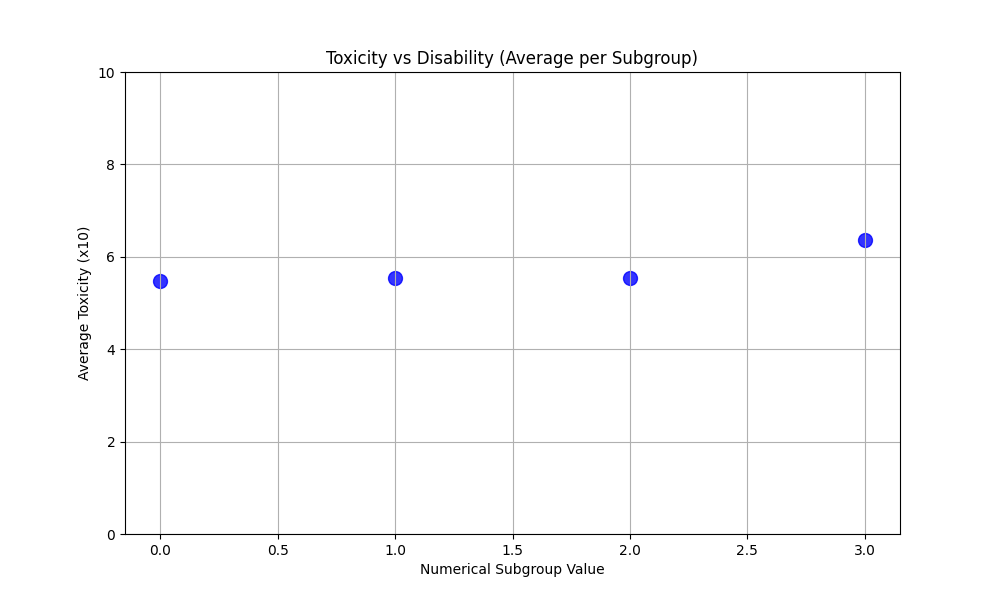
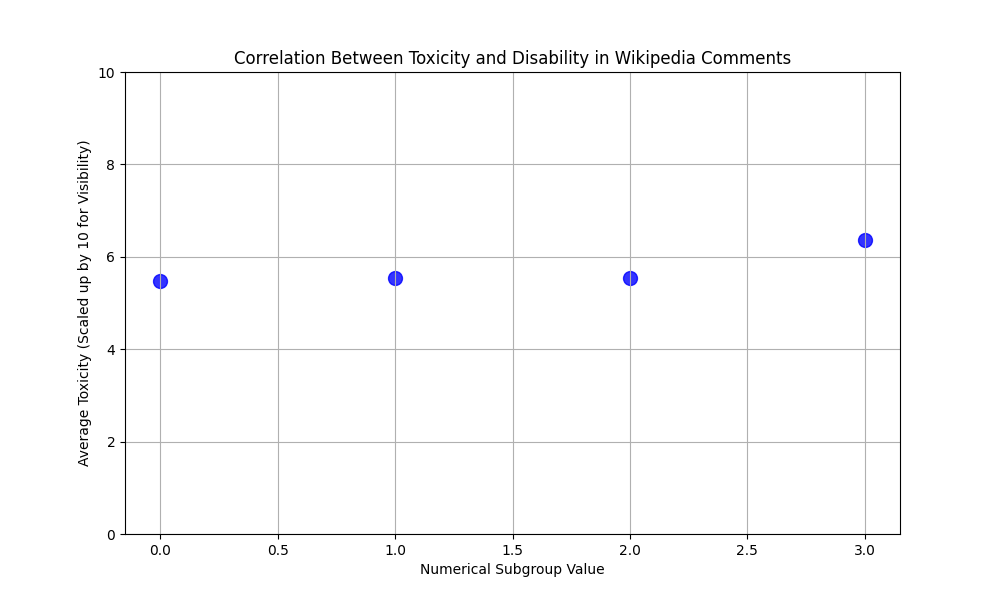
steps 4 to 6 work

diff --git a/HW_3/section4to6.py b/HW_3/section4to6.py
@@ -1,0 +1,233 @@
+import pandas as pd
+import numpy as np
+import matplotlib.pyplot as plt
+
+# Set random seed for reproducibility
+np.random.seed(42)
+
+# Load the reduced dataset
+try:
+    df = pd.read_csv('reduced_dataset.csv')
+except FileNotFoundError:
+    print("Error: 'reduced_dataset.csv' not found.")
+    exit()
+
+# Verify TOXICITY column exists
+if 'TOXICITY' not in df.columns:
+    print("Error: 'TOXICITY' column not found.")
+    exit()
+
+# Define Gender protected class and subgroups
+protected_class = 'Gender'
+subgroups = ['male', 'female', 'nonbinary', 'transgender', 'trans']
+
+# Verify subgroup columns exist
+missing_subgroups = [sub for sub in subgroups if sub not in df.columns]
+if missing_subgroups:
+    print(f"Warning: Subgroups {missing_subgroups} not found in dataset.")
+    exit()
+
+# Step 3: Required for population and sample statistics
+# Step 3.1: Population Statistics
+pop_mean = df['TOXICITY'].mean()
+pop_std = df['TOXICITY'].std(ddof=0)
+lower_95 = pop_mean - 2 * pop_std
+upper_95 = pop_mean + 2 * pop_std
+print("Step 3.1: Population Statistics")
+print(f"Population mean: {pop_mean:.4f}")
+print(f"Population standard deviation: {pop_std:.4f}")
+print(f"Range including ~95% of TOXICITY: [{lower_95:.4f}, {upper_95:.4f}]\n")
+
+# Create 10% and 60% random samples
+sample_10 = df.sample(frac=0.1, random_state=42)
+sample_60 = df.sample(frac=0.6, random_state=42)
+
+# Step 3.2: 10% Sample Statistics
+toxicity_10 = sample_10['TOXICITY']
+mean_10 = toxicity_10.mean()
+std_10 = toxicity_10.std(ddof=1)
+n_10 = len(toxicity_10)
+moe_10 = 1.96 * (std_10 / np.sqrt(n_10))
+ci_10_lower = mean_10 - moe_10
+ci_10_upper = mean_10 + moe_10
+print("Step 3.2: 10% Sample Statistics")
+print(f"Sample mean: {mean_10:.4f}")
+print(f"Sample standard deviation: {std_10:.4f}")
+print(f"Margin of error: {moe_10:.4f}\n")
+
+# Step 3.3: 60% Sample Statistics
+toxicity_60 = sample_60['TOXICITY']
+mean_60 = toxicity_60.mean()
+std_60 = toxicity_60.std(ddof=1)
+n_60 = len(toxicity_60)
+moe_60 = 1.96 * (std_60 / np.sqrt(n_60))
+ci_60_lower = mean_60 - moe_60
+ci_60_upper = mean_60 + moe_60
+print("Step 3.3: 60% Sample Statistics")
+print(f"Sample mean: {mean_60:.4f}")
+print(f"Sample standard deviation: {std_60:.4f}")
+print(f"Margin of error: {moe_60:.4f}\n")
+
+# Step 4: Analyzing Toxicity for Gender
+
+# Step 4.1: Gender in Reduced Dataset
+gender_mask = df[subgroups].any(axis=1)
+toxicity_gender = df.loc[gender_mask, 'TOXICITY']
+if len(toxicity_gender) > 0:
+    mean_gender = toxicity_gender.mean()
+    std_gender = toxicity_gender.std(ddof=0)
+    print("Step 4.1: Gender in Reduced Dataset")
+    print(f"Mean: {mean_gender:.4f}")
+    print(f"Standard deviation: {std_gender:.4f}\n")
+else:
+    print("Step 4.1: No data for Gender\n")
+    mean_gender = None
+    std_gender = None
+
+# Step 4.2: Gender in 10% Sample
+gender_mask_10 = sample_10[subgroups].any(axis=1)
+toxicity_gender_10 = sample_10.loc[gender_mask_10, 'TOXICITY']
+if len(toxicity_gender_10) > 0:
+    mean_gender_10 = toxicity_gender_10.mean()
+    std_gender_10 = toxicity_gender_10.std(ddof=1)
+    n_gender_10 = len(toxicity_gender_10)
+    moe_gender_10 = 1.96 * (std_gender_10 / np.sqrt(n_gender_10))
+    print("Step 4.2: Gender in 10% Sample")
+    print(f"Mean: {mean_gender_10:.4f}")
+    print(f"Standard deviation: {std_gender_10:.4f}")
+    print(f"Margin of error: {moe_gender_10:.4f}\n")
+else:
+    print("Step 4.2: No data for Gender in 10% Sample\n")
+    mean_gender_10 = None
+
+# Step 4.3: Gender in 60% Sample
+gender_mask_60 = sample_60[subgroups].any(axis=1)
+toxicity_gender_60 = sample_60.loc[gender_mask_60, 'TOXICITY']
+if len(toxicity_gender_60) > 0:
+    mean_gender_60 = toxicity_gender_60.mean()
+    std_gender_60 = toxicity_gender_60.std(ddof=1)
+    n_gender_60 = len(toxicity_gender_60)
+    moe_gender_60 = 1.96 * (std_gender_60 / np.sqrt(n_gender_60))
+    print("Step 4.3: Gender in 60% Sample")
+    print(f"Mean: {mean_gender_60:.4f}")
+    print(f"Standard deviation: {std_gender_60:.4f}")
+    print(f"Margin of error: {moe_gender_60:.4f}\n")
+else:
+    print("Step 4.3: No data for Gender in 60% Sample\n")
+    mean_gender_60 = None
+
+# Step 4.4: Check if sample means lie within population CI
+if mean_gender_10 is not None:
+    within_ci_10 = ci_10_lower <= mean_gender_10 <= ci_10_upper
+    print(f"Step 4.4: 10% Gender mean within 10% population CI? {within_ci_10}")
+else:
+    print("Step 4.4: No data for 10% Gender sample")
+if mean_gender_60 is not None:
+    within_ci_60 = ci_60_lower <= mean_gender_60 <= ci_60_upper
+    print(f"Step 4.4: 60% Gender mean within 60% population CI? {within_ci_60}\n")
+else:
+    print("Step 4.4: No data for 60% Gender sample\n")
+
+# Step 4.5: Explanation (to be written manually based on results)
+print("Step 4.5: Explanation for Step 4.4 requires manual interpretation based on results.\n")
+
+# Step 5: Analyzing Toxicity for Gender Subgroups
+
+# Step 5.1: Subgroups in Reduced Dataset
+print("Step 5.1: Subgroups in Reduced Dataset")
+sub_stats_reduced = {}
+for sub in subgroups:
+    sub_mask = df[sub]
+    toxicity_sub = df.loc[sub_mask, 'TOXICITY']
+    if len(toxicity_sub) > 0:
+        mean_sub = toxicity_sub.mean()
+        std_sub = toxicity_sub.std(ddof=0)
+        sub_stats_reduced[sub] = {'mean': mean_sub, 'std': std_sub}
+        print(f"{sub}: Mean: {mean_sub:.4f}, Std: {std_sub:.4f}")
+    else:
+        print(f"{sub}: No data")
+        sub_stats_reduced[sub] = None
+print()
+
+# Step 5.2: Subgroups in 10% Sample
+print("Step 5.2: Subgroups in 10% Sample")
+sub_stats_10 = {}
+for sub in subgroups:
+    sub_mask_10 = sample_10[sub]
+    toxicity_sub_10 = sample_10.loc[sub_mask_10, 'TOXICITY']
+    if len(toxicity_sub_10) > 0:
+        mean_sub_10 = toxicity_sub_10.mean()
+        std_sub_10 = toxicity_sub_10.std(ddof=1)
+        n_sub_10 = len(toxicity_sub_10)
+        moe_sub_10 = 1.96 * (std_sub_10 / np.sqrt(n_sub_10))
+        sub_stats_10[sub] = {'mean': mean_sub_10, 'std': std_sub_10, 'moe': moe_sub_10}
+        print(f"{sub}: Mean: {mean_sub_10:.4f}, Std: {std_sub_10:.4f}, MoE: {moe_sub_10:.4f}")
+    else:
+        print(f"{sub}: No data")
+        sub_stats_10[sub] = None
+print()
+
+# Step 5.3: Subgroups in 60% Sample
+print("Step 5.3: Subgroups in 60% Sample")
+sub_stats_60 = {}
+for sub in subgroups:
+    sub_mask_60 = sample_60[sub]
+    toxicity_sub_60 = sample_60.loc[sub_mask_60, 'TOXICITY']
+    if len(toxicity_sub_60) > 0:
+        mean_sub_60 = toxicity_sub_60.mean()
+        std_sub_60 = toxicity_sub_60.std(ddof=1)
+        n_sub_60 = len(toxicity_sub_60)
+        moe_sub_60 = 1.96 * (std_sub_60 / np.sqrt(n_sub_60))
+        sub_stats_60[sub] = {'mean': mean_sub_60, 'std': std_sub_60, 'moe': moe_sub_60}
+        print(f"{sub}: Mean: {mean_sub_60:.4f}, Std: {std_sub_60:.4f}, MoE: {moe_sub_60:.4f}")
+    else:
+        print(f"{sub}: No data")
+        sub_stats_60[sub] = None
+print()
+
+# Step 5.4: Check if subgroup means lie within population CI
+print("Step 5.4: Check for 10% Sample")
+for sub in subgroups:
+    if sub_stats_10[sub] is not None:
+        within_ci = ci_10_lower <= sub_stats_10[sub]['mean'] <= ci_10_upper
+        print(f"{sub}: {within_ci}")
+    else:
+        print(f"{sub}: No data")
+print("Step 5.4: Check for 60% Sample")
+for sub in subgroups:
+    if sub_stats_60[sub] is not None:
+        within_ci = ci_60_lower <= sub_stats_60[sub]['mean'] <= ci_60_upper
+        print(f"{sub}: {within_ci}")
+    else:
+        print(f"{sub}: No data")
+print()
+
+# Step 5.5: Explanation (to be written manually)
+print("Step 5.5: Explanation for Step 5.4 requires manual interpretation based on results.\n")
+
+# Step 6: Plot
+plot_data = [
+    {'category': 'Population', 'mean': pop_mean, 'std': pop_std},
+]
+if mean_gender is not None:
+    plot_data.append({'category': 'Gender', 'mean': mean_gender, 'std': std_gender})
+for sub in subgroups:
+    if sub_stats_reduced[sub] is not None:
+        plot_data.append({
+            'category': sub,
+            'mean': sub_stats_reduced[sub]['mean'],
+            'std': sub_stats_reduced[sub]['std']
+        })
+
+plot_df = pd.DataFrame(plot_data)
+plt.figure(figsize=(12, 6))
+plt.errorbar(plot_df['category'], plot_df['mean'], yerr=plot_df['std'], fmt='o', capsize=5)
+plt.xlabel('Category')
+plt.ylabel('Mean Toxicity')
+plt.title('Mean Toxicity with Standard Deviation Plotted for the Population, Gender, and Gender Subgroups')
+plt.xticks(rotation=45)
+plt.ylim(0, 1)
+plt.tight_layout()
+plt.savefig('toxicity_analysis_plot.png')
+plt.close()
+print("Step 6: Plot saved as 'toxicity_analysis_plot.png'")

diff --git a/HW_3/stats.py b/HW_3/stats.py
@@ -1,0 +1,55 @@
+import pandas as pd
+import numpy as np
+
+# Set random seed for reproducibility
+np.random.seed(42)
+
+# Load the reduced dataset
+try:
+    df = pd.read_csv('reduced_dataset.csv')
+except FileNotFoundError:
+    print("Error: 'reduced_dataset.csv' not found.")
+    exit()
+
+# Extract the TOXICITY column
+if 'TOXICITY' not in df.columns:
+    print("Error: 'TOXICITY' column not found in the dataset.")
+    exit()
+toxicity = df['TOXICITY']
+
+# 3.1 Population Statistics
+pop_mean = toxicity.mean()
+pop_std = toxicity.std(ddof=0)  # Population standard deviation
+lower_bound = pop_mean - 2 * pop_std
+upper_bound = pop_mean + 2 * pop_std
+
+print("3.1 Population Statistics")
+print(f"Population mean: {pop_mean:.4f}")
+print(f"Population standard deviation: {pop_std:.4f}")
+print(f"Range including approximately 95% of TOXICITY values: [{lower_bound:.4f}, {upper_bound:.4f}]\n")
+
+# Function to calculate sample statistics
+def calculate_sample_stats(sample):
+    sample_mean = sample.mean()
+    sample_std = sample.std(ddof=1)  # Sample standard deviation
+    n = len(sample)
+    margin_of_error = 1.96 * (sample_std / np.sqrt(n))  # 95% confidence interval
+    return sample_mean, sample_std, margin_of_error
+
+# 3.2 Random Sampling at 10%
+sample_10 = toxicity.sample(frac=0.1)
+mean_10, std_10, moe_10 = calculate_sample_stats(sample_10)
+
+print("3.2 Random Sampling at 10%")
+print(f"Sample mean: {mean_10:.4f}")
+print(f"Sample standard deviation: {std_10:.4f}")
+print(f"Margin of error: {moe_10:.4f}\n")
+
+# 3.3 Random Sampling at 60%
+sample_60 = toxicity.sample(frac=0.6)
+mean_60, std_60, moe_60 = calculate_sample_stats(sample_60)
+
+print("3.3 Random Sampling at 60%")
+print(f"Sample mean: {mean_60:.4f}")
+print(f"Sample standard deviation: {std_60:.4f}")
+print(f"Margin of error: {moe_60:.4f}")

diff --git a/HW_3/pcs_to_plot.py b/HW_3/pcs_to_plot.py
@@ -27,9 +27,9 @@ for pc in pcs_to_plot:
     plt.ylim(0, 10)
     
     # Add title and labels
-    plt.title(f'Toxicity vs {pc} (Average per Subgroup)')
+    plt.title(f'Correlation Between Toxicity and {pc} in Wikipedia Comments')
     plt.xlabel('Numerical Subgroup Value')
-    plt.ylabel('Average Toxicity (x10)')
+    plt.ylabel('Average Toxicity (Scaled up by 10 for Visibility)')
     
     # Add grid lines for readability
     plt.grid(True)
